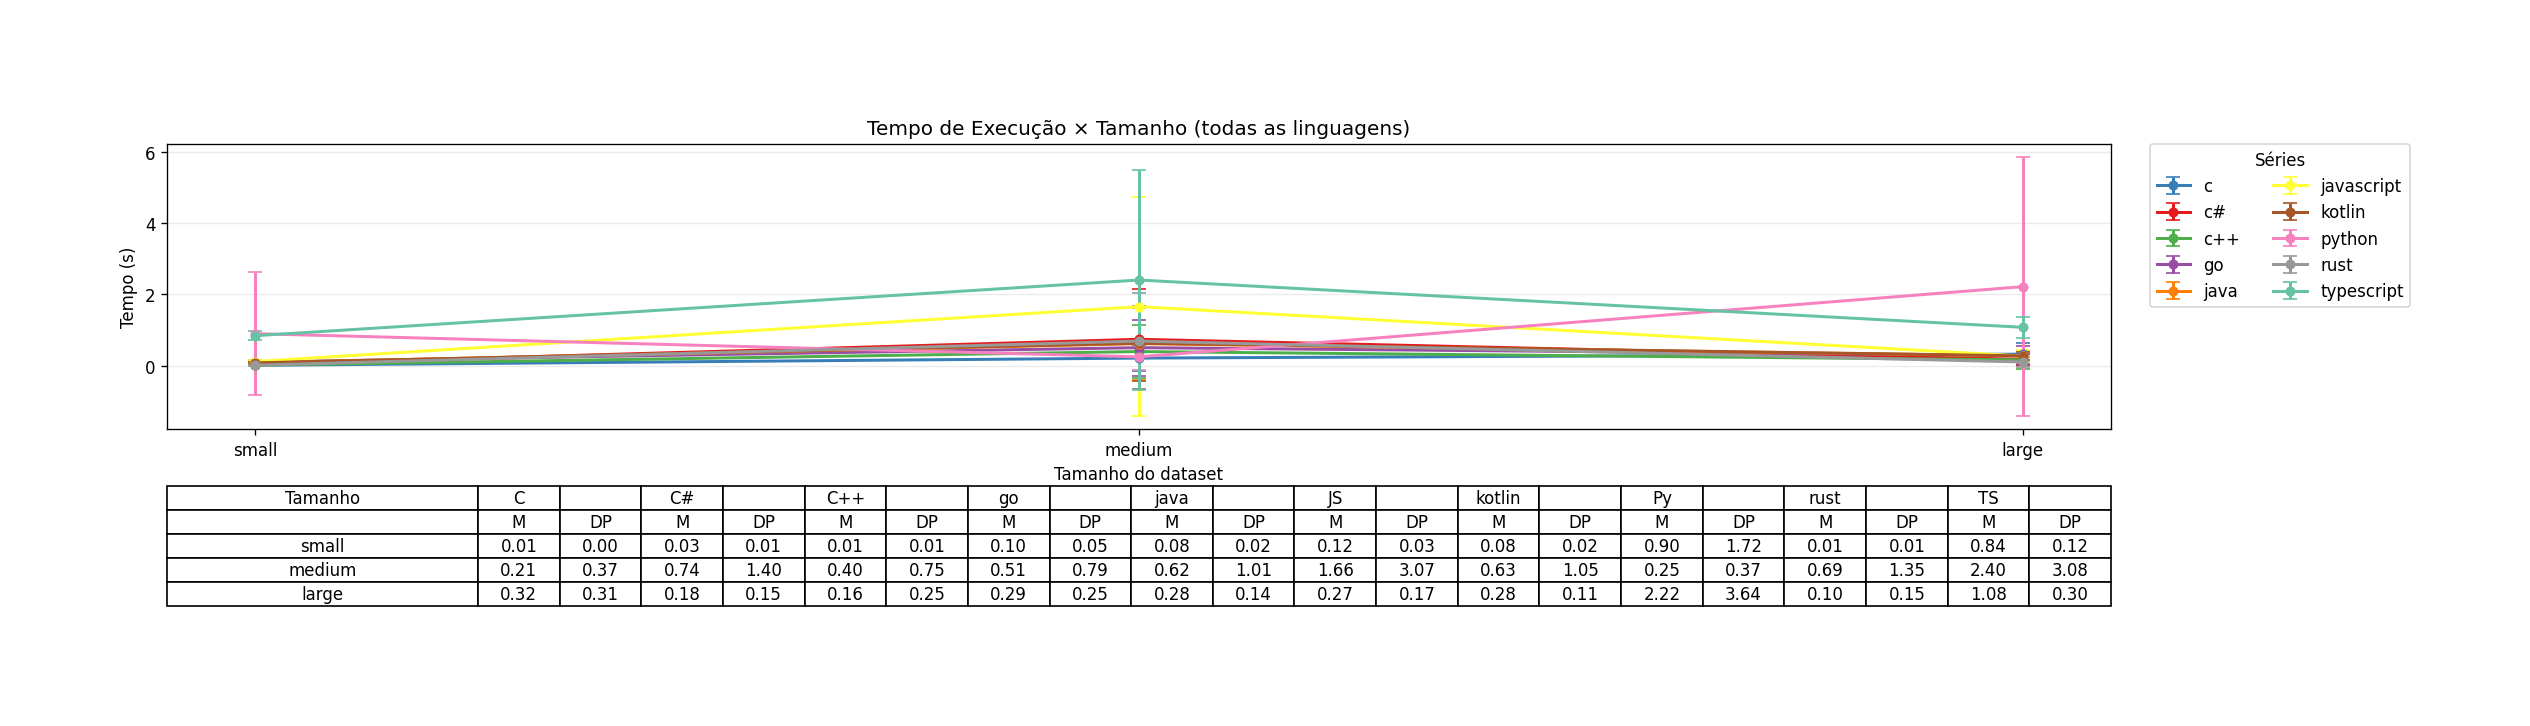
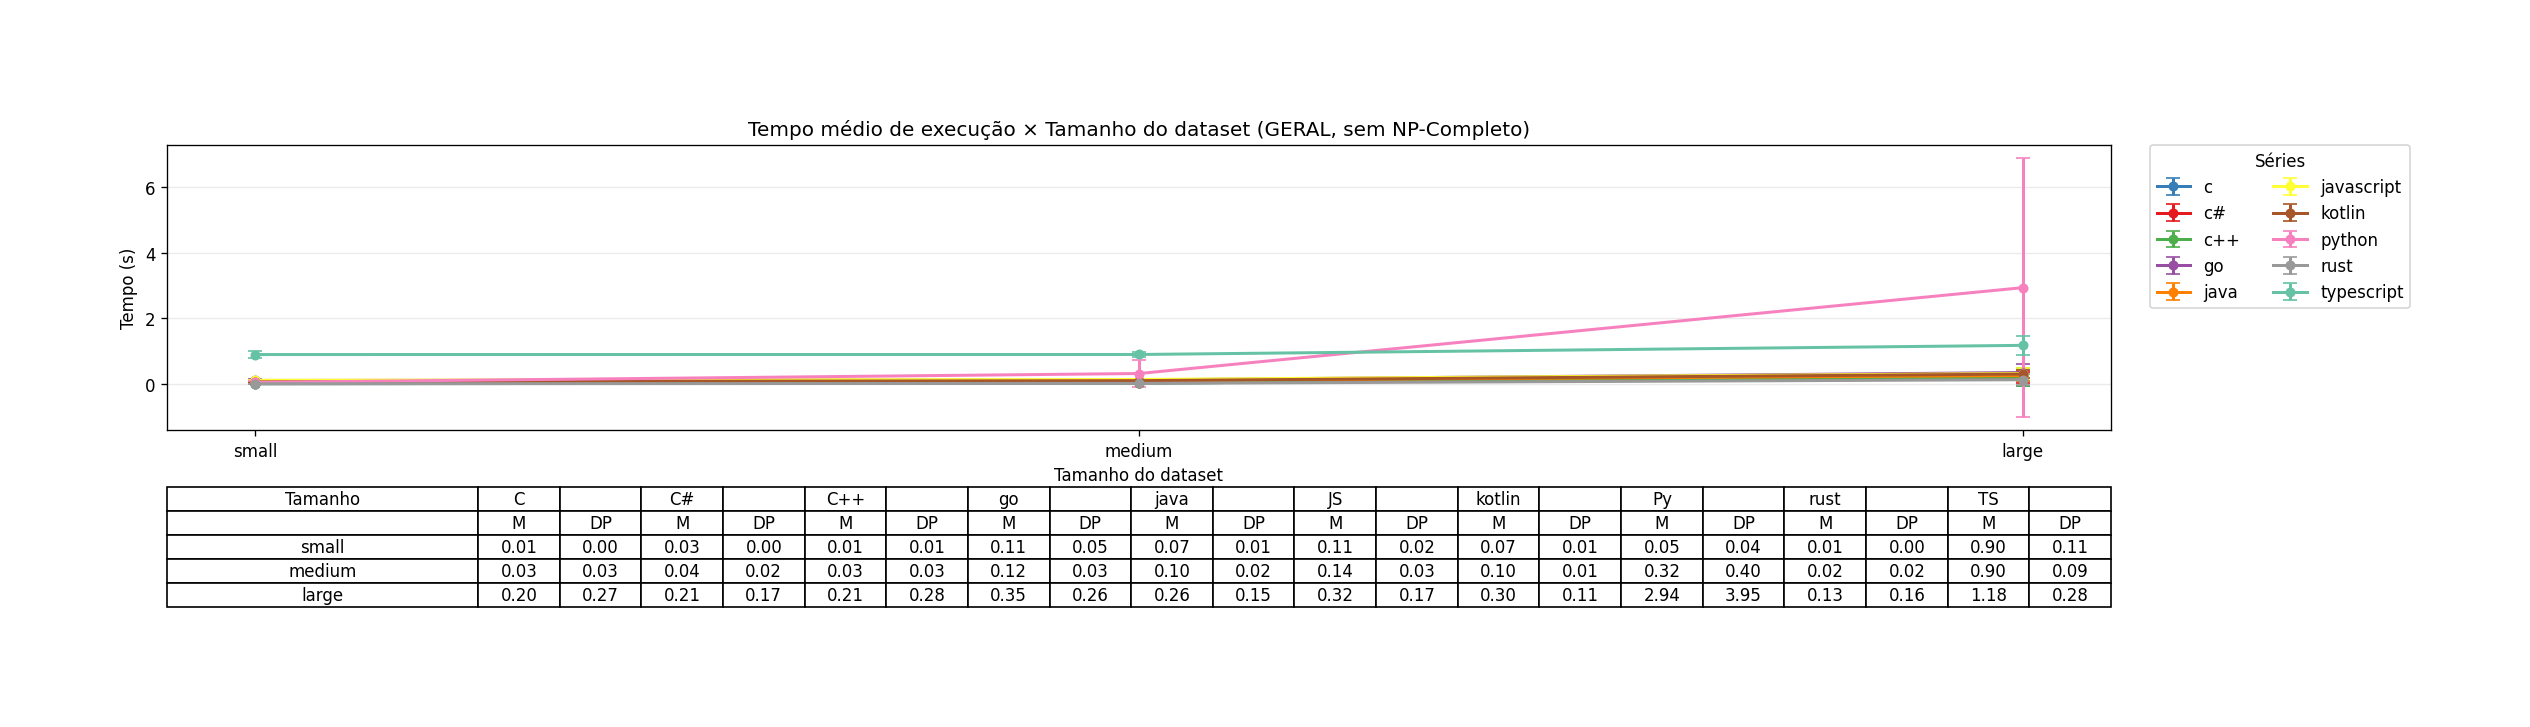
TCC: Refactor code structure for improved readability and maintainability

diff --git a/thesis/bi.py b/thesis/bi.py
@@ -97,21 +97,31 @@ if "algoritmo" in df.columns:
 HAS_CPU_NORM = "cpu_avg_during_norm" in df.columns
 HAS_RAM      = "ram_avg_during_mb" in df.columns
 
-# ===================== Agregações base =====================
-agg_spec = {"tempo_s": ["mean", "std", "count"]}
-if HAS_CPU_NORM:
-    agg_spec["cpu_avg_during_norm"] = ["mean", "std", "count"]
-if HAS_RAM:
-    agg_spec["ram_avg_during_mb"] = ["mean", "std", "count"]
+# Aliases para heurístico/guloso
+GREEDY_ALIASES = {
+    "guloso", "greedy",
+    "heuristica", "heurístico", "heuristico",
+    "aproximacao", "aproximação", "approx", "heuristic"
+}
 
-group_cols = [c for c in ["linguagem", "tamanho"] if c in df.columns]
-agg = (df.groupby(group_cols, as_index=False).agg(agg_spec))
-# achata MultiIndex
-agg.columns = ["_".join([c for c in col if c]) if isinstance(col, tuple) else col
-               for col in agg.columns.to_list()]
-agg.to_csv(os.path.join(OUT_DIR, "resumo_agg.csv"), index=False)
+# ===================== Filtro global para gráficos gerais (Opção A) =====================
+# Excluir COMPLETAMENTE NP-Completo dos gráficos gerais (tempo/cpu/ram)
+df_general = df[df["classe"].str.lower() != "np-completo"].copy()
 
-# ===================== Helpers de plot com tabela =====================
+# ===================== Helpers de agregação/plot =====================
+def build_agg(dataframe: pd.DataFrame):
+    agg_spec = {"tempo_s": ["mean", "std", "count"]}
+    if HAS_CPU_NORM:
+        agg_spec["cpu_avg_during_norm"] = ["mean", "std", "count"]
+    if HAS_RAM:
+        agg_spec["ram_avg_during_mb"] = ["mean", "std", "count"]
+    group_cols = [c for c in ["linguagem", "tamanho"] if c in dataframe.columns]
+    agg_df = (dataframe.groupby(group_cols, as_index=False).agg(agg_spec))
+    # achata MultiIndex
+    agg_df.columns = ["_".join([c for c in col if c]) if isinstance(col, tuple) else col
+                      for col in agg_df.columns.to_list()]
+    return agg_df
+
 def pivot_mean_std(agg_df, value_prefix, index_col="tamanho", column_col="linguagem"):
     mean_col = f"{value_prefix}_mean"
     std_col  = f"{value_prefix}_std"
@@ -167,11 +177,11 @@ def plot_lines_with_table(mean_df, std_df, title, ylabel, filename):
     table_df.index.name = "Tamanho"
     table_df.to_csv(os.path.join(OUT_DIR, f"{filename}_tabela.csv"))
 
-    # ===== Tabela embaixo (sem repetir a linguagem: “colspan” simulado) =====
+    # ===== Tabela embaixo =====
     langs = list(mean_df.columns)
     top = ["Tamanho"]
     for c in langs:
-        top += [f"{short_label(c)}", ""]  # nome da linguagem só na 1ª célula do par (M, DP)
+        top += [f"{short_label(c)}", ""]
     sub = [""] + ["M", "DP"] * len(langs)
 
     body = []
@@ -204,115 +214,191 @@ def plot_lines_with_table(mean_df, std_df, title, ylabel, filename):
 
     savefig(os.path.join(OUT_DIR, f"{filename}.png"), tight=True)
 
-# ===================== Gráficos principais (todas as linguagens) =====================
-m, s = pivot_mean_std(agg, "tempo_s")
-plot_lines_with_table(m, s, "Tempo de Execução × Tamanho (todas as linguagens)", "Tempo (s)", "tempo_vs_tamanho_all")
+# ===================== Agregações (GERAIS, sem NP-Completo) =====================
+agg_general = build_agg(df_general)
 
-if HAS_CPU_NORM and "cpu_avg_during_norm_mean" in agg.columns:
-    m, s = pivot_mean_std(agg, "cpu_avg_during_norm")
-    plot_lines_with_table(m, s, "CPU média normalizada × Tamanho (todas as linguagens)", "CPU média normalizada (%)", "cpu_vs_tamanho_all")
+# 1) TEMPO – geral (sem NP-Completo)
+m, s = pivot_mean_std(agg_general, "tempo_s")
+plot_lines_with_table(
+    m, s,
+    "Tempo médio de execução × Tamanho do dataset (GERAL, sem NP-Completo)",
+    "Tempo (s)",
+    "tempo_vs_tamanho_all"
+)
 
-if HAS_RAM and "ram_avg_during_mb_mean" in agg.columns:
-    m, s = pivot_mean_std(agg, "ram_avg_during_mb")
-    plot_lines_with_table(m, s, "RAM média × Tamanho (todas as linguagens)", "RAM (MB)", "ram_vs_tamanho_all")
+# 2) CPU – geral (sem NP-Completo)
+if HAS_CPU_NORM and "cpu_avg_during_norm_mean" in agg_general.columns:
+    m, s = pivot_mean_std(agg_general, "cpu_avg_during_norm")
+    plot_lines_with_table(
+        m, s,
+        "CPU média normalizada × Tamanho do dataset (GERAL, sem NP-Completo)",
+        "CPU média normalizada (%)",
+        "cpu_vs_tamanho_all"
+    )
 
-# ===================== Por linguagem (arquivos separados) =====================
-def plot_per_language(agg_df, value_prefix, title_prefix, ylab, fname_prefix):
-    if "linguagem" not in agg_df.columns:
-        return
-    for lang in sorted(agg_df["linguagem"].unique()):
-        sub = agg_df[agg_df["linguagem"] == lang]
-        mean_col = f"{value_prefix}_mean"
-        std_col  = f"{value_prefix}_std"
-        if sub.empty or mean_col not in sub.columns or std_col not in sub.columns:
-            continue
-        m = sub.pivot_table(index="tamanho", columns="linguagem", values=mean_col, aggfunc="mean")
-        s = sub.pivot_table(index="tamanho", columns="linguagem", values=std_col,  aggfunc="mean")
-        m = ensure_size_index(m); s = s.reindex(m.index)
-        title = f"{title_prefix} – {lang}"
-        fname  = f"{fname_prefix}_{lang}"
-        plot_lines_with_table(m, s, title, ylab, fname)
+# 3) RAM – geral (sem NP-Completo)
+if HAS_RAM and "ram_avg_during_mb_mean" in agg_general.columns:
+    m, s = pivot_mean_std(agg_general, "ram_avg_during_mb")
+    plot_lines_with_table(
+        m, s,
+        "RAM média × Tamanho do dataset (GERAL, sem NP-Completo)",
+        "RAM (MB)",
+        "ram_vs_tamanho_all"
+    )
 
-plot_per_language(agg, "tempo_s", "Tempo × Tamanho", "Tempo (s)", "tempo_vs_tamanho")
-if HAS_CPU_NORM:
-    plot_per_language(agg, "cpu_avg_during_norm", "CPU normalizada × Tamanho", "CPU média normalizada (%)", "cpu_vs_tamanho")
-if HAS_RAM:
-    plot_per_language(agg, "ram_avg_during_mb", "RAM × Tamanho", "RAM (MB)", "ram_vs_tamanho")
+# ===================== 4) Qualidade – NP-Completo (tempo) =====================
+def is_small_or_medium_size(val: str) -> bool:
+    s = str(val).strip().lower()
+    if s in {"small", "pequeno", "medium", "medio"}:
+        return True
+    n = parse_k_suffix(s)
+    if n is not None:
+        return n <= 10_000
+    if s in {"10^3", "10³"}:
+        return True
+    if s in {"10^4", "10⁴"}:
+        return True
+    return False
 
-# ===================== Linhas de código =====================
-if "linhas_codigo" in df.columns:
-    # por linguagem
-    loc_lang = df.groupby("linguagem")["linhas_codigo"].mean().sort_values()
-    loc_lang.to_csv(os.path.join(OUT_DIR, "linhas_codigo_media_por_linguagem.csv"))
-    ax = loc_lang.plot(kind="bar", figsize=(10,6), title="Média de linhas de código por linguagem")
-    plt.ylabel("Linhas de código")
+if {"classe", "algoritmo_norm", "tamanho", "tempo_s"}.issubset(df.columns):
+    # Apenas NP-Completo e {exato, heurístico}
+    base = df[(df["classe"].str.lower() == "np-completo") &
+              (df["algoritmo_norm"].isin({"exato"} | GREEDY_ALIASES))].copy()
+
+    if not base.empty:
+        # small/medium para todos + large SOMENTE p/ heurístico
+        mask_sm = base["tamanho"].apply(is_small_or_medium_size)
+        mask_large = base["tamanho"].astype(str).str.lower().isin({"large", "grande"}) | (
+            base["tamanho"].apply(parse_k_suffix).fillna(-1) > 10_000
+        )
+        is_greedy = base["algoritmo_norm"].isin(GREEDY_ALIASES)
+        knap = base[mask_sm | (is_greedy & mask_large)].copy()
+
+        # agrega por tamanho × algoritmo (tempo)
+        qual_t = (knap.groupby(["tamanho", "algoritmo_norm"], as_index=False)
+                        .agg(tempo_s_mean=("tempo_s", "mean"),
+                             tempo_s_std=("tempo_s", "std"),
+                             n=("tempo_s", "count")))
+        # ordena tamanhos e salva
+        qual_t["__ord_tam__"] = qual_t["tamanho"].apply(size_sort_key)
+        qual_t = qual_t.sort_values(["__ord_tam__", "algoritmo_norm"]).drop(columns="__ord_tam__")
+
+        # ---- Pivot (Exato vs Heurístico) ----
+        pm = qual_t.pivot_table(index="tamanho", columns="algoritmo_norm",
+                                values="tempo_s_mean", aggfunc="mean")
+        ps = qual_t.pivot_table(index="tamanho", columns="algoritmo_norm",
+                                values="tempo_s_std", aggfunc="mean")
+
+        # reindex ordenado e alinhar
+        idx_sizes = sorted(pm.index.unique(), key=size_sort_key)
+        pm = pm.reindex(idx_sizes)
+        ps = ps.reindex(idx_sizes)
+
+        # localizar colunas
+        cols = {c.lower(): c for c in pm.columns}
+        c_exato = cols.get("exato")
+        c_heur = None
+        for alias in GREEDY_ALIASES:
+            if alias in cols:
+                c_heur = cols[alias]; break
+
+        # salvar CSVs
+        qual_t.to_csv(os.path.join(OUT_DIR, "qualidade_npcompleto_sm+heur_large_tempo_raw.csv"), index=False)
+        pm.to_csv(os.path.join(OUT_DIR, "qualidade_npcompleto_sm+heur_large_tempo_mean_pivot.csv"))
+        if ps is not None:
+            ps.to_csv(os.path.join(OUT_DIR, "qualidade_npcompleto_sm+heur_large_tempo_std_pivot.csv"))
+
+        # speedup (large ficará NaN no exato)
+        if c_exato is not None and c_heur is not None:
+            spd = pd.DataFrame({
+                "tamanho": [str(i) for i in pm.index],
+                "tempo_exato_mean": pm.get(c_exato),
+                "tempo_heur_mean":  pm.get(c_heur),
+            })
+            spd["speedup_exato_div_heur"] = spd["tempo_exato_mean"] / spd["tempo_heur_mean"]
+            spd["ganho_percent"] = (spd["tempo_exato_mean"] - spd["tempo_heur_mean"]) / spd["tempo_exato_mean"] * 100.0
+            spd.to_csv(os.path.join(OUT_DIR, "npcompleto_sm+heur_large_speedup.csv"), index=False)
+
+        # ---- Plot (linhas) – Exato vs Heurístico (tempo) ----
+        def plot_quality_time(mean_df: pd.DataFrame, std_df: pd.DataFrame,
+                              title: str, ylabel: str, filename: str):
+            if mean_df is None or mean_df.empty:
+                return
+            x = np.arange(len(mean_df.index))
+            plt.figure(figsize=(16, 8))
+            colors = {c: COLORS_VIBRANT[i % len(COLORS_VIBRANT)] for i, c in enumerate(mean_df.columns)}
+            for col in mean_df.columns:
+                y = mean_df[col].values.astype(float)
+                yerr = std_df[col].values.astype(float) if (std_df is not None and col in std_df.columns) else None
+                plt.errorbar(x, y, yerr=yerr, fmt='-o', linewidth=1.8, markersize=5,
+                             color=colors[col], ecolor=colors[col], capsize=4, label=str(col))
+            plt.title(title)
+            plt.xlabel("Tamanho (small/medium + large só heurístico)")
+            plt.ylabel(ylabel)
+            plt.xticks(x, [str(v) for v in mean_df.index])
+            plt.grid(True, axis='y', alpha=0.25)
+            plt.legend(ncol=2, title="Algoritmo", loc="upper left",
+                       bbox_to_anchor=(1.02, 1.0), borderaxespad=0.0)
+
+            # Tabela embaixo (M/DP), exibindo "Indet." quando NaN
+            series = list(mean_df.columns)
+            top = ["Tamanho"]
+            for c in series:
+                top += [str(c), ""]
+            sub = [""] + ["M", "DP"] * len(series)
+
+            body = []
+            for idx in mean_df.index:
+                row = [str(idx)]
+                for c in series:
+                    mval = mean_df.loc[idx, c]
+                    sval = std_df.loc[idx, c] if std_df is not None and c in std_df.columns else np.nan
+                    mtxt = "Indet." if (pd.isna(mval)) else f"{mval:.2f}"
+                    stxt = ""       if (pd.isna(sval)) else f"{sval:.2f}"
+                    row += [mtxt, stxt]
+                body.append(row)
+
+            ncols = 1 + 2 * len(series)
+            w0 = 0.22
+            w_each = (1.0 - w0) / (ncols - 1)
+            colw = [w0] + [w_each] * (ncols - 1)
+
+            tbl = plt.table(
+                cellText=[top, sub] + body,
+                cellLoc="center",
+                colWidths=colw,
+                loc="bottom",
+                bbox=[0.0, TABLE_Y0, 1.0, TABLE_H],
+            )
+            tbl.auto_set_font_size(False)
+            tbl.set_fontsize(10)
+            tbl.scale(1.0, 1.18)
+
+            plt.subplots_adjust(left=0.08, right=0.98, top=0.88, bottom=BOTTOM0)
+            savefig(os.path.join(OUT_DIR, f"{filename}.png"), tight=True)
+
+        ps_aligned = ps.reindex(index=pm.index, columns=pm.columns) if ps is not None else None
+        plot_quality_time(
+            pm, ps_aligned,
+            "NP-Completo – Tempo: Exato (small/medium; large indeterminado) vs Heurístico (small/medium/large)",
+            "Tempo (s)",
+            "qualidade_npcompleto_sm+heur_large_tempo"
+        )
+else:
+    print("⚠ Qualidade (NP-Completo): verifique 'classe', 'algoritmo_norm', 'tamanho', 'tempo_s'.")
+
+# ===================== 5) Linhas de código por linguagem × algoritmo =====================
+if "linhas_codigo" in df.columns and {"linguagem", "algoritmo"}.issubset(df.columns):
+    loc_lang_alg = (df.groupby(["linguagem","algoritmo"])["linhas_codigo"]
+                      .mean().unstack().fillna(0).sort_index())
+    loc_lang_alg.to_csv(os.path.join(OUT_DIR, "linhas_codigo_linguagem_algoritmo.csv"))
+    ax = loc_lang_alg.plot(kind="bar", figsize=(12,6),
+                           title="Linhas de código por linguagem × algoritmo (média)")
+    plt.ylabel("Linhas de código (média)")
     plt.xlabel("Linguagem")
+    plt.xticks(rotation=45)
     for cont in ax.containers:
         ax.bar_label(cont, fmt="%.0f", fontsize=8)
-    savefig(os.path.join(OUT_DIR, "linhas_codigo_por_linguagem.png"))
-
-    # por linguagem × classe
-    if "classe" in df.columns:
-        loc_lang_cls = df.groupby(["linguagem","classe"])["linhas_codigo"].mean().unstack().fillna(0)
-        loc_lang_cls.to_csv(os.path.join(OUT_DIR, "linhas_codigo_linguagem_classe.csv"))
-        ax = loc_lang_cls.plot(kind="bar", figsize=(12,6), title="Média de linhas de código por linguagem e classe")
-        plt.ylabel("Linhas de código")
-        plt.xlabel("Linguagem")
-        plt.xticks(rotation=45)
-        for cont in ax.containers:
-            ax.bar_label(cont, fmt="%.0f", fontsize=8)
-        savefig(os.path.join(OUT_DIR, "linhas_codigo_linguagem_classe.png"))
-
-# ===================== Tempo por classe polinomial =====================
-if "classe" in df.columns:
-    tempo_classe = df.groupby("classe")["tempo_s"].mean().sort_values()
-    tempo_classe.to_csv(os.path.join(OUT_DIR, "tempo_medio_por_classe.csv"))
-    ax = tempo_classe.plot(kind="bar", figsize=(8,5), title="Tempo médio por classe de complexidade")
-    plt.ylabel("Tempo (s)")
-    plt.xlabel("Classe")
-    for cont in ax.containers:
-        ax.bar_label(cont, fmt="%.3f", fontsize=8)
-    savefig(os.path.join(OUT_DIR, "tempo_medio_por_classe.png"))
-
-# ===================== Knapsack (NP-Completo): Exato vs Guloso =====================
-if "classe" in df.columns and "algoritmo_norm" in df.columns:
-    knap = df[(df["classe"].str.lower() == "np-completo") &
-              (df["algoritmo_norm"].isin(["exato", "guloso"]))].copy()
-    if not knap.empty and "tamanho" in knap.columns:
-        sizes = sorted(knap["tamanho"].unique(), key=size_sort_key)
-        focus_sizes = sizes[:2] if len(sizes) >= 2 else sizes
-        knap2 = knap[knap["tamanho"].isin(focus_sizes)].copy()
-
-        spec = {"tempo_s": ["mean","std","count"]}
-        if HAS_CPU_NORM: spec["cpu_avg_during_norm"] = ["mean","std","count"]
-        if HAS_RAM:      spec["ram_avg_during_mb"]   = ["mean","std","count"]
-
-        aggk = (knap2
-                .groupby(["linguagem","tamanho","algoritmo_norm"], as_index=False)
-                .agg(spec))
-        aggk.columns = ["_".join([c for c in col if c]) if isinstance(col, tuple) else col
-                        for col in aggk.columns.to_list()]
-        aggk.to_csv(os.path.join(OUT_DIR, "knapsack_exato_vs_guloso.csv"), index=False)
-
-        def piv(sub, prefix):
-            m = sub.pivot(index="tamanho", columns="algoritmo_norm", values=f"{prefix}_mean").fillna(0)
-            s = sub.pivot(index="tamanho", columns="algoritmo_norm", values=f"{prefix}_std").fillna(0)
-            m = ensure_size_index(m); s = s.reindex(m.index)
-            return m, s
-
-        for lang in sorted(aggk["linguagem"].unique()):
-            sub = aggk[aggk["linguagem"] == lang]
-            if sub.empty: continue
-
-            m, s = piv(sub, "tempo_s")
-            plot_lines_with_table(m, s, f"Knapsack – Tempo – {lang}", "Tempo (s)", f"knapsack_tempo_{lang}")
-
-            if HAS_CPU_NORM and "cpu_avg_during_norm_mean" in sub.columns:
-                m, s = piv(sub, "cpu_avg_during_norm")
-                plot_lines_with_table(m, s, f"Knapsack – CPU (norm) – {lang}", "CPU média normalizada (%)", f"knapsack_cpu_{lang}")
-
-            if HAS_RAM and "ram_avg_during_mb_mean" in sub.columns:
-                m, s = piv(sub, "ram_avg_during_mb")
-                plot_lines_with_table(m, s, f"Knapsack – RAM – {lang}", "RAM (MB)", f"knapsack_ram_{lang}")
+    savefig(os.path.join(OUT_DIR, "linhas_codigo_linguagem_algoritmo.png"))
 
 print("✅ BI concluído. Saída em:", OUT_DIR)
